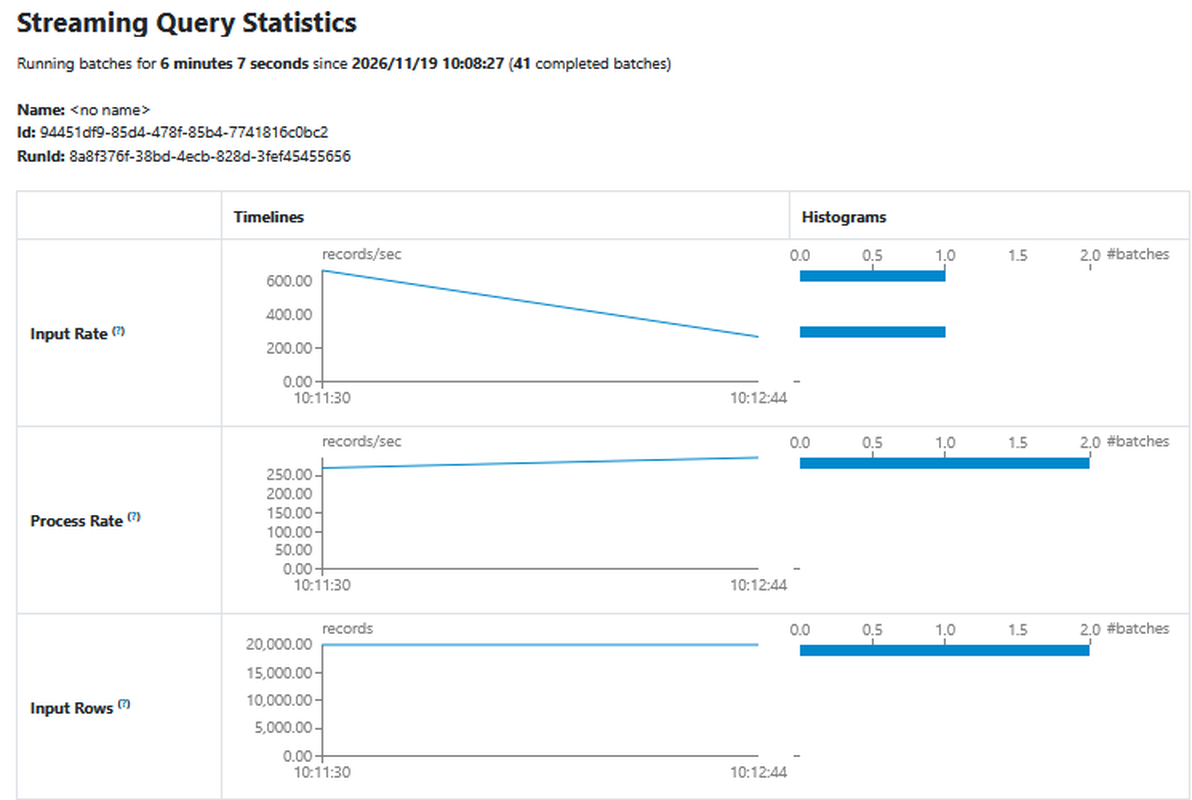
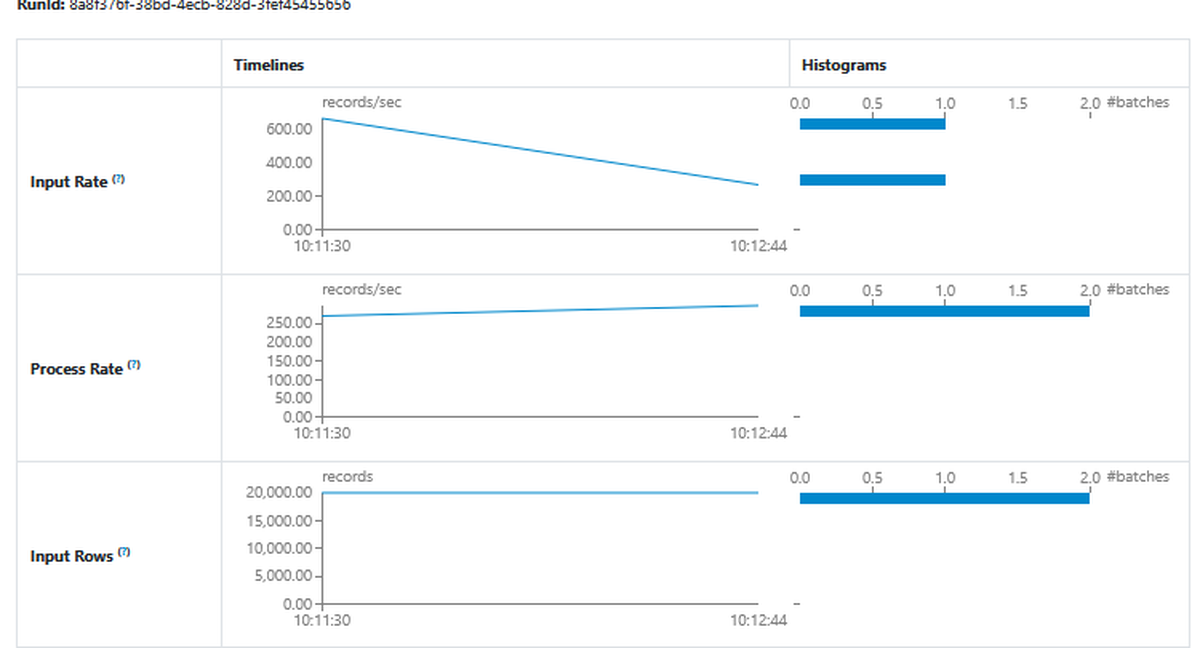
feat(P11d): team info on cover/Q&A/report cover, remove section strip via hust-override.sty (thin progress bar kept), content area re-measured (184 -> 196 pt), taller figure defaults, Spark UI crop

diff --git a/slides/sections/04-mo-rong.tex b/slides/sections/04-mo-rong.tex
@@ -6,7 +6,7 @@
 % (A) kiến trúc
 \begin{frame}{Lakehouse thêm đường thứ hai: từ CDC qua Bronze, Silver đến Gold}
 \muc{5.1 · Lakehouse}
-\HinhLon[0.56\textheight]{5-1_kien_truc_lakehouse_sl.png}
+\HinhLon{5-1_kien_truc_lakehouse_sl.png}
 \KetLuan{Gold giữ đúng mô hình sao chương 3; đối soát với kho khớp 16/16 bảng}
 \note{[P10-kiến trúc] Hình: docs/LAKEHOUSE.md mục 3.3. Nguồn vẫn là PostgreSQL; mỗi thay đổi được bắt từ log (CDC), qua Kafka vào Bronze, Silver, Gold trên object storage ở dạng bảng Iceberg (Parquet cộng metadata), truy vấn bằng Trino, dựng Gold bằng dbt. Lakehouse không thay kho chương 3 mà là đường thứ hai; phần kết quả chứng minh hai đường cho cùng số liệu. Sơ đồ chi tiết cũ (cho báo cáo): figures/5-1\_kien\_truc\_lakehouse.png.}
 \end{frame}
@@ -105,7 +105,7 @@ CRM (\texttt{mql}, \texttt{closed\_deals}) và danh mục & 2.076 & 8.913 \\
 % (B) đối soát
 \begin{frame}{Đối soát Gold với kho: 16/16 bảng khớp, GMV bằng nhau đến từng xu}
 \muc{5.1 · Lakehouse}
-\begin{AnhKhoanh}[0.54\textheight]{5-1_reconcile_tc.png}
+\begin{AnhKhoanh}{5-1_reconcile_tc.png}
   \khoanh{0.0}{0.065}{0.98}{0.155}
   \nhan{0.45}{0.30}{RESULT: all tables match}
 \end{AnhKhoanh}
@@ -142,7 +142,7 @@ CRM (\texttt{mql}, \texttt{closed\_deals}) và danh mục & 2.076 & 8.913 \\
 % (A) độ trễ
 \begin{frame}{Độ trễ nguồn đến Silver trung bình 22,6 giây, chủ yếu là chờ micro-batch}
 \muc{5.1 · Lakehouse}
-\HinhLon[0.56\textheight]{5-1_latency_sl.png}
+\HinhLon{5-1_latency_sl.png}
 \KetLuan{6 lần đo: 10,9 đến 37,8 giây; Debezium chỉ mất dưới 1 giây}
 \note{[P10-đo] handoff/2026-11-19-P10-latency.md; script lakehouse/scripts/latency\_probe.py (hình vẽ lại bằng scripts/p11\_figures.py từ chính 6 lần đo, không đo lại). Trung bình: PostgreSQL sang Kafka 0,5 giây, Kafka sang Bronze 12,1 giây (gồm chờ trigger 30 giây kế tiếp), Bronze sang Silver 10,0 giây; nguồn đến Silver 22,6 giây (10,9 đến 37,8); nguồn đến đọc được qua Trino 29,9 giây (19,8 đến 42,9). Mỗi lần thử đổi một cột của một đơn rồi hoàn nguyên, Silver trở lại bằng nguồn. Thông lượng và RAM: slide dự phòng chương 5.}
 \end{frame}
@@ -200,7 +200,7 @@ Ngày lễ có làm giảm đơn không? & ngày lễ quốc gia & BrasilAPI \\
 % (A) kiến trúc API
 \begin{frame}{Kiến trúc API: lỗi gọi API không làm hỏng pipeline chính}
 \muc{5.2 · Thu thập từ API}
-\HinhLon[0.56\textheight]{5-2_kien_truc_api_sl.png}
+\HinhLon{5-2_kien_truc_api_sl.png}
 \KetLuan{Dựng lại toàn bộ (rebuild) dùng landing zone, không cần mạng}
 \note{[S119] Sơ đồ rút gọn cho máy chiếu; sơ đồ chi tiết (cho báo cáo): figures/5-2\_kien\_truc\_api.png. Lỗi gọi API ghi vào etl\_log; các cột mới của kho giữ NULL và bốn dashboard DB1--DB4 không đổi số. Collector thử lại tối đa 5 lần, landing zone 69 lời gọi, 4,66 MB, 48.016 bản ghi: slide dự phòng chương 5.}
 \end{frame}
@@ -234,7 +234,7 @@ Không khớp & 719 & -- & 0,5 chưa khớp \\
 % (A/H) theo đầu người
 \begin{frame}{Theo đầu người, Rio de Janeiro dẫn đầu: 53,90 BRL trên 1.000 dân}
 \muc{5.2 · Thu thập từ API}
-\HinhLon[0.54\textheight]{5-2_gmv_dau_nguoi_theo_bang_sl.png}
+\HinhLon{5-2_gmv_dau_nguoi_theo_bang_sl.png}
 \KetLuan{RJ 53,90 dẫn đầu; DF hạng 9 theo GMV lên hạng 3; MA tụt từ hạng 15 xuống 24}
 \note{[S121] Dân số là ước tính IBGE 2017, GMV theo bang của khách. 2017: RJ 53,90; SP 48,58; DF 43,95; thấp nhất AM 2,58. MA tụt từ hạng 15 xuống 24; PA 13 sang 22; TO lên 23 sang 12. Cả nước 29,42 BRL trên 1.000 dân năm 2017 và 35,21 năm 2018. Distrito Federal: hạng 9 theo GMV, hạng 3 theo đầu người. Maranhão tụt từ hạng 15 xuống 24. Spearman giữa hai thứ hạng: 0,78. Số dưới mã bang trên hình là hạng theo GMV. Hình chỉ vẽ 10 bang cao nhất và 5 bang thấp nhất; đủ 27 bang ở slide dự phòng chương 5.}
 \end{frame}
@@ -242,7 +242,7 @@ Không khớp & 719 & -- & 0,5 chưa khớp \\
 % (A) danh nghĩa so với thực
 \begin{frame}{GMV tháng 1--8 tăng 138,3\% danh nghĩa, 130,9\% theo giá thực, 116,7\% theo USD}
 \muc{5.2 · Thu thập từ API}
-\HinhLon[0.56\textheight]{5-2_danh_nghia_so_voi_thuc_sl.png}
+\HinhLon{5-2_danh_nghia_so_voi_thuc_sl.png}
 \KetLuan{Lạm phát và tỷ giá làm giảm mức tăng 7,4 và 21,6 điểm phần trăm}
 \note{[S157] Lạm phát IPCA 08/2017 sang 08/2018: 4,2\%. Tỷ giá bình quân gia quyền theo GMV: 3,17 (01/2017) sang 3,84 (08/2018). GMV thực = GMV chia chỉ số IPCA, giá 01/2016. Mức tăng lớn chủ yếu do dữ liệu 2017 còn đang lớn dần.}
 \end{frame}

diff --git a/slides/main.tex b/slides/main.tex
@@ -12,7 +12,8 @@
 \setbeamerfont{frametitle}{size=\small}   % tiêu đề slide là câu kết luận dài (theme cắt tiêu đề ở một dòng)
 \usepackage{booktabs,tabularx,multirow,array,colortbl,graphicx,pifont,adjustbox}
 \usetikzlibrary{calc,positioning}
-\usepackage{bocuc}   % macro bố cục chiếu: slides/QUY-TAC-TRINH-BAY.md
+\usepackage{bocuc}   % macro bố cục chiếu
+\usepackage{hust-override}   % bỏ dải tên các phần, giữ thanh tiến độ mảnh (không sửa hust-theme/)   % macro bố cục chiếu: slides/QUY-TAC-TRINH-BAY.md
 \makeatletter
 \let\hustspeakernote\note          % theme đổi \note thành ghi chú chân trang; trả lại \note = ghi chú người nói của Beamer
 \let\note\beamer@orig@note
@@ -20,26 +21,28 @@
 \ifdefined\HUSTNOTES\setbeameroption{show notes on second screen=right}\fi
 \setbeamertemplate{note page}[plain]
 
-% ---------- THÔNG TIN CẦN SỬA (xem slides/README.md) ----------
-\newcommand{\TenNhom}{[TÊN NHÓM]}
-\newcommand{\ThanhVienA}{[Họ tên 1 -- MSSV]}
-\newcommand{\ThanhVienB}{[Họ tên 2 -- MSSV]}
-\newcommand{\ThanhVienC}{[Họ tên 3 -- MSSV]}
-\newcommand{\ThanhVienD}{[Họ tên 4 -- MSSV]}
-\newcommand{\GiangVien}{[Họ tên giảng viên]}
+% ---------- THÔNG TIN NHÓM (xem slides/README.md) ----------
+\newcommand{\TenNhom}{19}
+\newcommand{\MaLop}{174394}
+\newcommand{\ThanhVienA}{Phạm Thị Phương Anh -- 20237414}
+\newcommand{\ThanhVienB}{Nguyễn Thị Thanh Hiền -- 20237433}
+\newcommand{\ThanhVienC}{Đỗ Thị Hồng Lê -- 20237454}
+\newcommand{\ThanhVienD}{Lương Hồng Phúc -- 20237474}
+\newcommand{\ThanhVienE}{Trần Thanh Phú -- 20237473}
+\newcommand{\GiangVien}{ThS. Nguyễn Danh Tú}
 % --------------------------------------------------------------
 
 % khung ảnh chụp dashboard / hình cần chèn sau (chữ rõ ràng để không bị bỏ sót)
 \newcommand{\khungchen}[2][0.5\textheight]{\par\vspace{2pt}\centering\fcolorbox{red!70!black}{red!4}{\parbox[c][#1][c]{0.86\linewidth}{\centering\bfseries\large\color{red!70!black}#2}}\par}
 \newcommand{\anh}[2][0.56\textheight]{\includegraphics[width=\linewidth,height=#1,keepaspectratio]{#2}}
 % nhãn mục barem ở góc phải trên mỗi slide, ví dụ \muc{2.4 · Dữ liệu nguồn}
-\newcommand{\muc}[1]{\begin{tikzpicture}[remember picture,overlay]\node[anchor=north east,inner xsep=6pt,inner ysep=2pt,font=\fontsize{6.5}{7}\selectfont\bfseries,text=white,fill=black!60,opacity=0.85,text opacity=1]at ([xshift=-4pt,yshift=-26pt]current page.north east){#1};\end{tikzpicture}}
+\newcommand{\muc}[1]{\begin{tikzpicture}[remember picture,overlay]\node[anchor=north east,inner xsep=6pt,inner ysep=2pt,font=\fontsize{6.5}{7}\selectfont\bfseries,text=white,fill=black!60,opacity=0.85,text opacity=1]at ([xshift=-4pt,yshift=-35.5pt]current page.north east){#1};\end{tikzpicture}}
 \newcommand{\canxacnhan}{\hfill{\scriptsize\color{red!70!black}[nhóm xác nhận]}}
 
 \title[Olist DW \& BI]{{\normalsize KHO DỮ LIỆU VÀ KINH DOANH THÔNG MINH (MI4214)}\\[5pt]{\bfseries Xây dựng kho dữ liệu Quản lý đơn hàng -- Olist}}
 \subtitle{Báo cáo nhóm: từ hai bộ dữ liệu đến kho dữ liệu hình sao và bốn dashboard Power BI}
-\author[\TenNhom]{Nhóm \TenNhom\\ \ThanhVienA, \ThanhVienB,\\ \ThanhVienC, \ThanhVienD\\ GVHD: \GiangVien}
-\institute{Khoa Toán - Tin,\\Đại học Bách khoa Hà Nội}
+\author[Nhóm \TenNhom]{Nhóm \TenNhom\ -- lớp \MaLop\\[1pt]{\scriptsize \ThanhVienA, \ThanhVienB,\\\ThanhVienC, \ThanhVienD,\\\ThanhVienE}\\[1pt]{\small GVHD: \GiangVien}}
+\institute{Khoa Toán - Tin, Đại học Bách khoa Hà Nội}
 \date{\today}
 
 \begin{document}
@@ -50,7 +53,7 @@
 \end{frame}
 
 \begin{frame}[noprogressbar]{\husttoctitle}{\husttocsubtitle}
-  \tableofcontents[hideallsubsections]
+  \tableofcontents[hideallsubsections,split=4]
 \end{frame}
 
 % \CHIPHAN (đặt trong thu-mot-phan.tex) = chỉ biên dịch một file trong sections/ để xem thử nhanh; bình thường không đặt.

diff --git a/slides/sections/00-mo-dau.tex b/slides/sections/00-mo-dau.tex
@@ -4,7 +4,7 @@
 % (A) hình lớn
 \begin{frame}{Kho dữ liệu và BI cho 99.441 đơn hàng thương mại điện tử Olist}
 \muc{Mở đầu}
-\HinhLon[0.56\textheight]{3-3-4_constellation_sl.png}
+\HinhLon{3-3-4_constellation_sl.png}
 \KetLuan{dim\_date nối cả 6 fact; dim\_customer nối 4 fact}
 \note{[S01] Học phần MI4214 – Kho dữ liệu và Kinh doanh thông minh; nhóm ...; giảng viên ... Chúng em xây một kho dữ liệu hoàn chỉnh từ hai bộ dữ liệu Olist: nguồn, ETL, kho hình sao, data mart và bốn dashboard Power BI. Bài trình bày đi từ bài toán đến kết quả và bài học.}
 \end{frame}
@@ -25,7 +25,7 @@
 % (A) hình lớn
 \begin{frame}{Từ 1,56 triệu dòng nguồn đến 6 fact, 17 view mart và 4 dashboard}
 \muc{Mở đầu}
-\HinhLon[0.56\textheight]{3-4-1_pipeline_sl.png}
+\HinhLon{3-4-1_pipeline_sl.png}
 \KetLuan{Dựng lại từ đầu bằng một lệnh trong khoảng 7 phút, 136 kiểm thử đạt}
 \note{[S03] Dự án trong một trang: 2 hệ thống nguồn, staging, ODS, kho (10 chiều và 6 fact), 4 data mart, Power BI. Toàn bộ dựng lại từ đầu bằng một lệnh trong khoảng 7 phút và cho kết quả giống hệt; 136 phép kiểm thử đạt. Đây là bức tranh để quay lại khi cần.}
 \end{frame}

diff --git a/report/chapters/00-danh-gia-thanh-vien.tex b/report/chapters/00-danh-gia-thanh-vien.tex
@@ -1,6 +1,6 @@
 \chapter*{Bảng đánh giá thành viên}
 \addcontentsline{toc}{chapter}{Bảng đánh giá thành viên}
-\noindent\textbf{Môn học:} Kho dữ liệu và Kinh doanh thông minh (MI4214)\qquad\textbf{Lớp:} \dotfill\qquad\textbf{Nhóm:} \dotfill\\[4pt]
+\noindent\textbf{Môn học:} Kho dữ liệu và Kinh doanh thông minh (MI4214)\qquad\textbf{Lớp:} 174394\qquad\textbf{Nhóm:} 19\\[4pt]
 \noindent\textbf{Người đánh giá (trưởng nhóm):} \dotfill
 
 \medskip
@@ -11,12 +11,11 @@
 \hline
 \textbf{STT} & \textbf{Tên thành viên} & \textbf{Làm tốt phần việc được giao} & \textbf{Liên hệ được khi cần} & \textbf{Khả năng đóng góp sáng kiến, ý kiến cho hoạt động nhóm} & \textbf{Sẵn sàng giúp đỡ} & \textbf{Đóng góp chung vào kết quả của nhóm} & \textbf{Tổng điểm}\\
 \hline
-1 & & & & & & & \\ \hline
-2 & & & & & & & \\ \hline
-3 & & & & & & & \\ \hline
-4 & & & & & & & \\ \hline
-5 & & & & & & & \\ \hline
-6 & & & & & & & \\ \hline
+1 & Phạm Thị Phương Anh & & & & & & \\ \hline
+2 & Nguyễn Thị Thanh Hiền & & & & & & \\ \hline
+3 & Đỗ Thị Hồng Lê & & & & & & \\ \hline
+4 & Lương Hồng Phúc & & & & & & \\ \hline
+5 & Trần Thanh Phú & & & & & & \\ \hline
 \end{tabularx}
 \end{center}
 

diff --git a/slides/sections/99-du-phong.tex b/slides/sections/99-du-phong.tex
@@ -292,13 +292,13 @@ Chạy thử (3.000 sự kiện đầu) & 3.000 & 541 \\
 \end{frame}
 
 \begin{frame}[noprogressbar,noframenumbering]{Lineage bốn tầng: 18 nguồn Silver, 10 dimension, 6 fact, 4 mart}
-\HinhLon[0.54\textheight]{5-1_dbt_lineage.png}
+\HinhLon{5-1_dbt_lineage.png}
 \KetLuan{77 cạnh phụ thuộc; 71/71 phép kiểm thử dbt đạt}
 \note{[P11-dự phòng 5.1] Hình vẽ bằng lakehouse/scripts/gen\_lineage.py từ dbt/target/manifest.json. Fact nối tới dim\_date qua depends\_on vì khoá ngày tính từ mốc thời gian, không join.}
 \end{frame}
 
 \begin{frame}[noprogressbar,noframenumbering]{Đủ 27 bang: GMV trên 1.000 dân từ 53,90 (RJ) xuống 2,58 (AM)}
-\HinhLon[0.54\textheight]{5-2_gmv_dau_nguoi_theo_bang_full_sl.png}
+\HinhLon{5-2_gmv_dau_nguoi_theo_bang_full_sl.png}
 \KetLuan{Số dưới mã bang là hạng theo GMV; DF hạng 9 theo GMV, hạng 3 theo đầu người}
 \note{[P11-dự phòng 5.2] Bản đầy đủ 27 bang của biểu đồ ở slide GMV trên 1.000 dân (dân số là ước tính IBGE 2017). Spearman giữa hai thứ hạng: 0,78.}
 \end{frame}

diff --git a/report/chapters/00-bia.tex b/report/chapters/00-bia.tex
@@ -1,7 +1,5 @@
 \begin{titlepage}
 \centering
-\todo{Điền tên giảng viên, lớp, nhóm, thành viên và MSSV ở bìa.}
-
 \includegraphics[height=2.6cm]{figures/hust-shield.png}\\[0.4cm]
 {\large\textbf{ĐẠI HỌC BÁCH KHOA HÀ NỘI -- KHOA TOÁN - TIN}}
 
@@ -18,14 +16,14 @@
 \vspace{1.2cm}
 \begin{flushleft}
 \hspace{2.2cm}\begin{tabular}{@{}p{5cm}p{7cm}@{}}
-Giảng viên hướng dẫn: & \dotfill\\[4pt]
-Lớp / Nhóm: & \dotfill\\[8pt]
+Giảng viên hướng dẫn: & ThS. Nguyễn Danh Tú\\[4pt]
+Lớp / Nhóm: & Mã lớp 174394 / Nhóm 19\\[8pt]
 \textbf{Thành viên nhóm:} & \\[2pt]
-1. \dotfill & MSSV: \dotfill \\
-2. \dotfill & MSSV: \dotfill \\
-3. \dotfill & MSSV: \dotfill \\
-4. \dotfill & MSSV: \dotfill \\
-5. \dotfill & MSSV: \dotfill \\
+1. Phạm Thị Phương Anh & MSSV: 20237414 \\
+2. Nguyễn Thị Thanh Hiền & MSSV: 20237433 \\
+3. Đỗ Thị Hồng Lê & MSSV: 20237454 \\
+4. Lương Hồng Phúc & MSSV: 20237474 \\
+5. Trần Thanh Phú & MSSV: 20237473 \\
 \end{tabular}
 \end{flushleft}
 \vfill

diff --git a/slides/sections/05-tong-ket.tex b/slides/sections/05-tong-ket.tex
@@ -26,6 +26,6 @@
 \begin{hustdarkframe}
 \centering\vspace*{0.14\paperheight}
 {\Huge\bfseries\color{white} CẢM ƠN QUÝ THẦY CÔ\\VÀ CÁC BẠN ĐÃ LẮNG NGHE!\par}\vspace{1em}
-{\large\color{white!85} Hỏi đáp (Q\&A)\par}\vspace{0.8em}{\normalsize\color{white!85} Nhóm \TenNhom\ -- GVHD: \GiangVien\par}
+{\large\color{white!85} Hỏi đáp (Q\&A)\par}\vspace{0.8em}{\normalsize\color{white!85} Nhóm \TenNhom\ -- lớp \MaLop\ -- GVHD: \GiangVien\par}
 \note{[S114] Nhóm sẵn sàng trả lời; các slide dự phòng B01–B10 dùng khi cần.}
 \end{hustdarkframe}

diff --git a/handoff/2026-11-20-P11-slide.md b/handoff/2026-11-20-P11-slide.md
@@ -90,3 +90,12 @@ Ba lỗi tiêu biểu mỗi file (mỗi lỗi một mã quy tắc khác nhau):
 - **Slide GMV trên 1.000 dân:** chỉ vẽ 10 bang cao nhất và 5 bang thấp nhất (có ghi "12 bang khác, đủ 27 bang ở slide dự phòng" ngay trong hình); bản 27 bang (`5-2_gmv_dau_nguoi_theo_bang_full_sl.png`) nằm ở slide dự phòng chương 5 trong `99-du-phong.tex`. Cả hai sinh bằng `python scripts/p9_results.py --slide`.
 - **Slide lineage `fact_order_item`:** bỏ `\KetLuan` (có chú thích `% cho-phep: R7`), ảnh lấy chiều cao `\VungCao` trừ 24 pt (dùng đúng `\VungCao` thì thừa 21 pt, `Overfull \vbox`); kết quả 71/71 test chuyển vào `\note`.
 - `kiem_tra_slide.py --strict` 0 LỖI, 0 NÊN cho `00`, `04`, `05`; không còn `Overfull \vbox`; `slides_overleaf.zip` (155 file) và `slides/main.pdf` (203 trang) tạo lại.
+
+## P11d – thông tin nhóm, bỏ dải tên các phần, đo lại vùng nội dung (21/11/2026)
+- **Thông tin nhóm** (đúng thứ tự, xếp theo tên): nhóm 19, mã lớp 174394, GVHD ThS. Nguyễn Danh Tú; thành viên Phạm Thị Phương Anh 20237414, Nguyễn Thị Thanh Hiền 20237433, Đỗ Thị Hồng Lê 20237454, Lương Hồng Phúc 20237474, Trần Thanh Phú 20237473. Điền ở: `slides/main.tex` (macro `\TenNhom`, `\MaLop`, `\ThanhVienA`…`\ThanhVienE`, `\GiangVien`, bìa gồm 5 thành viên), trang Hỏi đáp (`05-tong-ket.tex`, thêm mã lớp), `report/chapters/00-bia.tex` (đã bỏ `\todo`), bảng đánh giá thành viên (`00-danh-gia-thanh-vien.tex`: lớp, nhóm, 5 tên), `slides/README.md`. Grep `[TÊN NHÓM]`, `[Họ tên giảng viên]`, `[Họ tên … MSSV]` trong `slides/` và `report/`: còn 0 chỗ.
+- **Dải tên các phần ở đầu slide đã bỏ** bằng `slides/hust-override.sty` (nạp trong `main.tex`; theme không có tuỳ chọn riêng: `progressbar=off` bỏ luôn cả thanh tiến độ). Thanh tiêu đề, nhãn mục (dời xuống ngay dưới thanh tiêu đề, góc phải) và thanh tiến độ mảnh 3 pt (độ dài = số slide đã qua / tổng) được giữ. `slides/hust-theme/` không sửa. Trang mục lục chia hai cột (`split=4`) vì trước đó mục 6 bị đường chân trang cắt ngang.
+- **Vùng nội dung** (render một frame trống, 16:9, đo bằng quét điểm ảnh): trước: từ 53,5 pt đến 237,5 pt = **184 pt**; sau: từ 41,5 pt đến 237,5 pt = **196 pt** (tăng 12 pt). `bocuc.sty`: `\VungCao` 0,76 → 0,82 `\textheight` (169 → 183 pt), `\HinhCao` 0,56 → 0,60 (125 → 134 pt); giá trị chọn theo kết quả biên dịch (0,84/0,64 làm 5 frame của chương 5 tràn 1–7 pt), vẫn chừa thanh `\KetLuan` một dòng. Số đo ghi trong chú thích đầu `bocuc.sty`.
+- **Ảnh cắt lại:** `5-1_spark_ui_streaming_tc.png` (bỏ phần tiêu đề và tên query, còn ba biểu đồ, tỉ lệ 1,49 → 1,84). Các ảnh khác đã ở tỉ lệ 2,0–2,5 (jobs 2,07; MinIO console 2,2; reconcile 2,5; dbt test 2,5) hoặc là hình vẽ ngang 2,9–3,5 nên giữ nguyên; ảnh lineage `fact_order_item` tỉ lệ 1,42 (đồ thị có 13 nút nguồn, cắt thêm sẽ mất nút) nên giữ.
+  Các khung chương 5 bỏ chiều cao cố định 0,54–0,56 để dùng `\HinhCao` mới.
+- **Overfull `\vbox`:** `00`, `04`, `05` = 0 sau khi chỉnh. File thành viên (chỉ đo, không sửa): `01a` 4 → 2, `01b` 1 → 1, `02a` 4 → 4, `02b` 5 → 5, `00b` và `03` 0 → 0; tức không file nào tệ hơn trước. `99-du-phong.tex`: 1 frame (bảng B01, tràn 1,6 pt) đã có từ trước.
+- **Chưa làm:** mục 5 (dàn lại slide thành viên, đang bị khoá bằng `%`).

diff --git a/slides/README.md b/slides/README.md
@@ -32,9 +32,10 @@ Mỗi slide là một `frame`: tiêu đề là câu kết luận có số, 1–3
 ## 3. Sửa thông tin nhóm, tên thành viên, giảng viên
 Mở `main.tex`, sửa khối **THÔNG TIN CẦN SỬA** ở đầu file:
 ```latex
-\newcommand{\TenNhom}{[TÊN NHÓM]}
-\newcommand{\ThanhVienA}{[Họ tên 1 -- MSSV]}   % ... đến \ThanhVienD
-\newcommand{\GiangVien}{[Họ tên giảng viên]}
+\newcommand{\TenNhom}{19}
+\newcommand{\MaLop}{174394}
+\newcommand{\ThanhVienA}{Phạm Thị Phương Anh -- 20237414}   % ... đến \ThanhVienE (5 thành viên, xếp theo tên)
+\newcommand{\GiangVien}{ThS. Nguyễn Danh Tú}
 ```
 Các giá trị này xuất hiện ở bìa, chân trang và slide cảm ơn. Cần thêm thành viên thứ năm: thêm `\newcommand{\ThanhVienE}{...}` và thêm `\ThanhVienE` vào dòng `\author{...}` bên dưới. Tên môn và đề tài nằm ở `\title{...}`.
 
